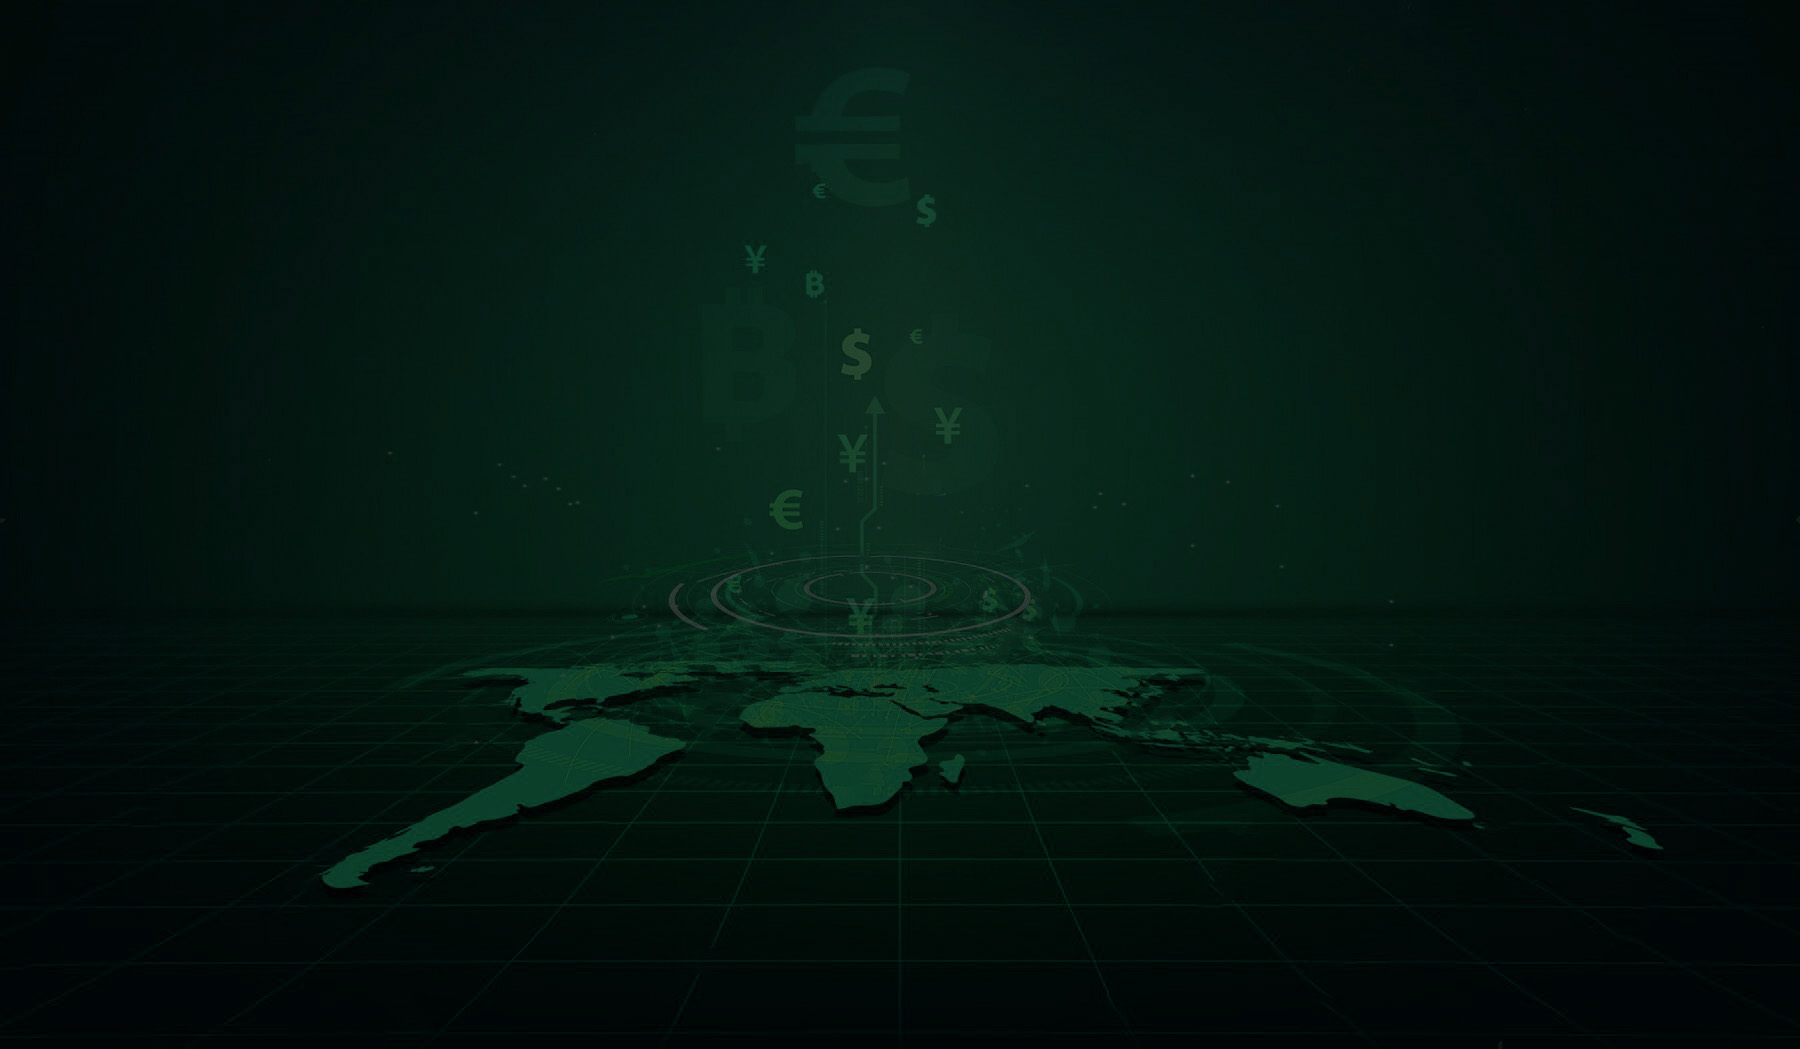
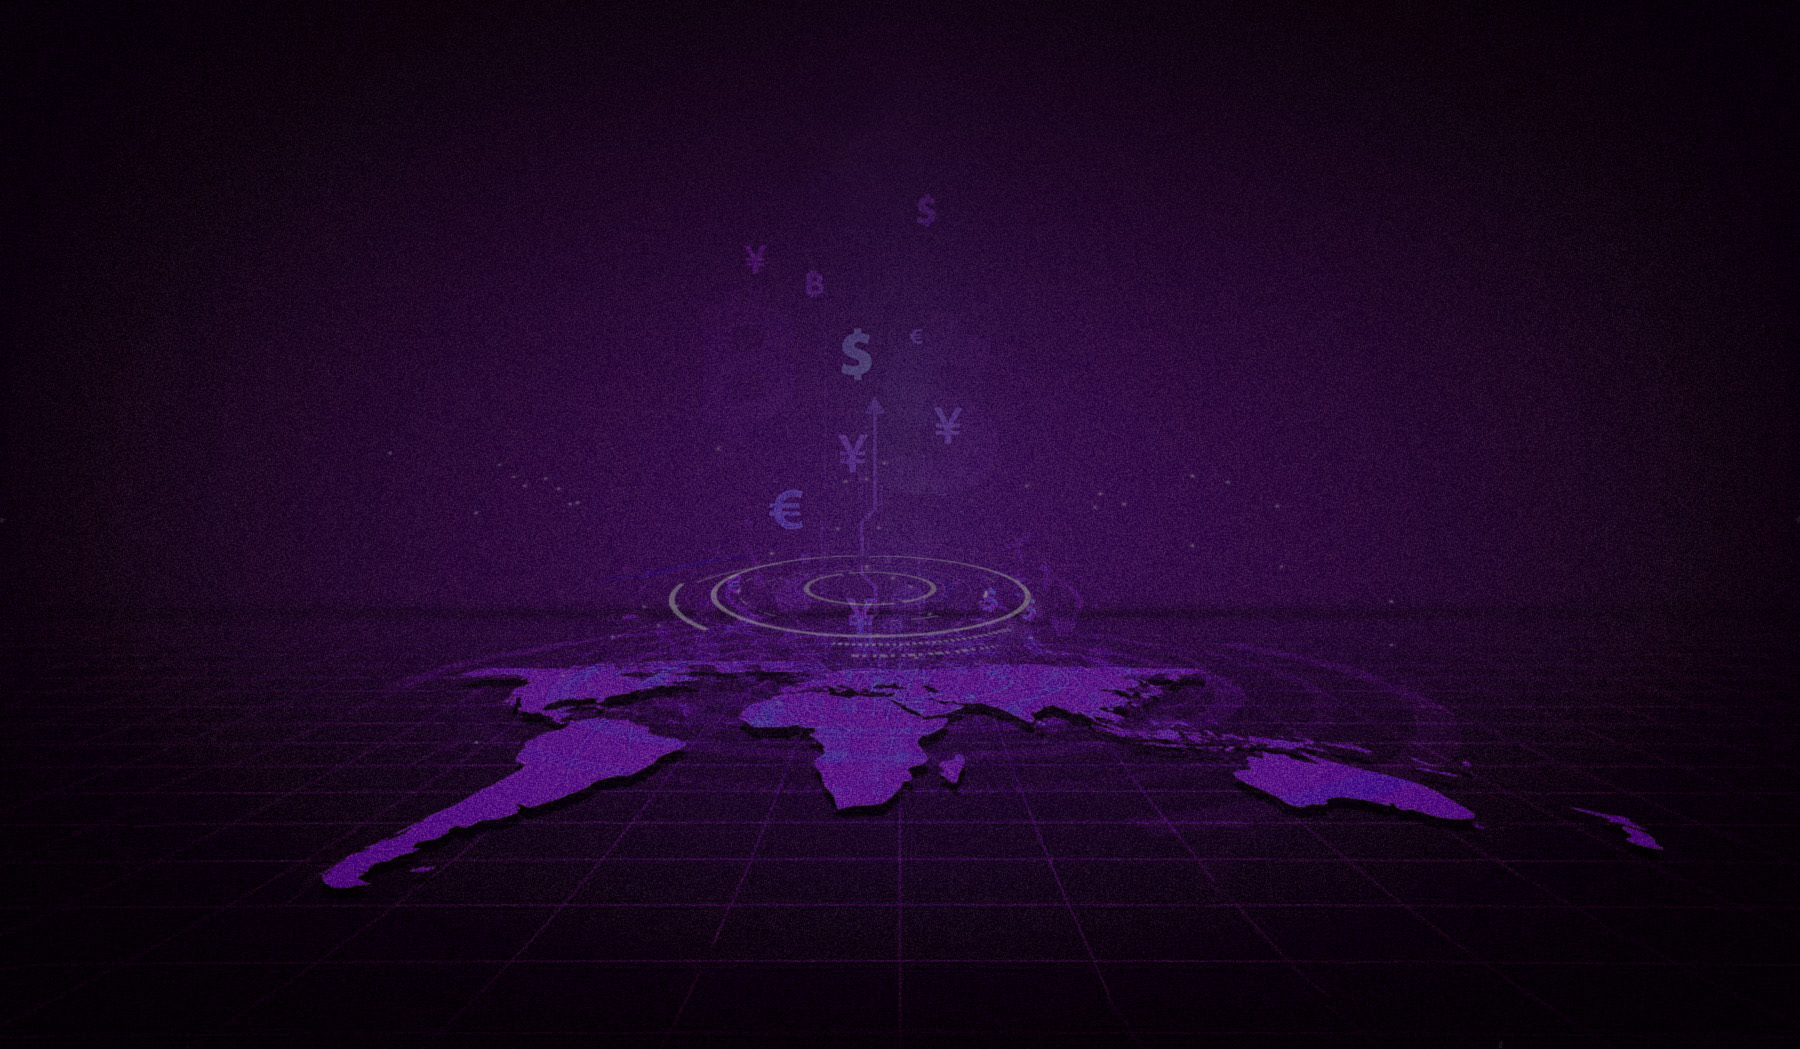
final commit

diff --git a/client/src/pages/MainPage.js b/client/src/pages/MainPage.js
@@ -63,16 +63,21 @@ function MainPage() {
   return (
 
     <div>
+
+      
       {loading?(        
-      <div className="w-full h-screen flex flex-col items-center justify-center bg-black">
-      <div className="w-16 h-16 border-4 border-green-500 border-dashed rounded-full animate-spin"></div>
-      <p className="mt-4 text-green-600 font-semibold text-xl">Converting...</p>
+      <div className="w-full h-screen flex flex-col items-center justify-center bg-black bg-cover bg-center"
+      style={{ backgroundImage: "url('/blur_bg.jpg')" }}>
+      <div className="w-16 h-16 border-4 border-[rgb(198,0,255)] border-dashed rounded-full animate-spin"></div>
+      <p className="mt-4 text-[rgb(198,0,255)] text-600 font-semibold text-xl">Converting...</p>
     </div>
       ):(  
-      <div className="bg-cover bg-center h-screen w-full" style={{ backgroundImage: "url('currency-banner.jpg')" }}>
+      <div className="bg-cover bg-center h-screen w-full" style={{ backgroundImage: "url('currency-banner.jpg')" }}                >
+      
+
         <div>
         <br></br> <br></br>
-        <h1 className='lg:mx-32  text-5xl font-bold text-green-500 text-center'> Convert Your Currencies Today!</h1>
+        <h1 className='lg:mx-32  text-5xl font-bold text-[rgb(198,0,255)] text-center'> Convert Your Currencies Today!</h1>
         <p className='lg:mx-32 opacity-80 py-6 text-center'>Convert Your Currencies Today is your ultimate currency exchange companion! Whether you're traveling the world, 
             shopping internationally, managing business transactions, or sending money abroad, our app ensures quick, accurate, 
             and hassle-free conversions in real-time.</p>
@@ -84,7 +89,7 @@ function MainPage() {
               
                       <div className="mb-4">
                        <label htmlFor={date} className="block mb-2 text-sm font-medium text-gray-900 dark:text-white">Date</label>
-                       <input onChange={(e) => setDate(e.target.value)} type="Date" id={date} name={date} className="bg-gray-50 border border-gray-300 text-gray-900 text-sm rounded-lg focus:ring-green-500 focus:border-green-500 block w-full p-2.5 dark:bg-white-100 dark:border-gray-600 dark:placeholder-gray-400 dark:text-black dark:focus:ring-green-500 dark:focus:border-green-500"  required />
+                       <input onChange={(e) => setDate(e.target.value)} type="Date" id={date} name={date} className="bg-gray-200 border border-gray-300 text-gray-900 text-sm rounded-lg focus:ring-purple-500 focus:border-purple-500 block w-full p-2.5 dark:bg-white-100 dark:border-gray-600 dark:placeholder-gray-400 dark:text-black dark:focus:ring-purple-500 dark:focus:border-purple-500"  required />
     
                       </div>
 
@@ -94,7 +99,7 @@ function MainPage() {
                        </label>
                        <select
                        onChange={(e) => setSourceCurrency(e.target.value)}
-                       className= "bg-gray-50 border border-gray-300 text-gray-900 text-sm rounded-lg focus:ring-green-500 focus:border-green-500 block w-full p-2.5 dark:bg-white-100 dark:border-gray-600 dark:placeholder-gray-400 dark:text-black dark:focus:ring-green-500 dark:focus:border-green-500" name={sourceCurrency} id={sourceCurrency} value={sourceCurrency}>
+                       className= "bg-gray-200 border border-gray-300 text-gray-900 text-sm rounded-lg focus:ring-purple-500 focus:border-purple-500 block w-full p-2.5 dark:bg-white-100 dark:border-gray-600 dark:placeholder-gray-400 dark:text-black dark:focus:ring-purple-500 dark:focus:border-purple-500" name={sourceCurrency} id={sourceCurrency} value={sourceCurrency}>
 
                            <option value=""> Select Your Source Currency</option>
                            {console.log("currency names : ",currencyNames)}
@@ -113,7 +118,7 @@ function MainPage() {
                        </label>
                        <select
                        onChange={(e) => setTargetCurrency(e.target.value)}
-                       className= "bg-gray-50 border border-gray-300 text-gray-900 text-sm rounded-lg focus:ring-green-500 focus:border-green-500 block w-full p-2.5 dark:bg-white-100 dark:border-gray-600 dark:placeholder-gray-400 dark:text-black dark:focus:ring-green-500 dark:focus:border-green-500" name={targetCurrency} id={targetCurrency} value={targetCurrency}>
+                       className= "bg-gray-200 border border-gray-300 text-gray-900 text-sm rounded-lg focus:ring-purple-500 focus:border-purple-500 block w-full p-2.5 dark:bg-white-100 dark:border-gray-600 dark:placeholder-gray-400 dark:text-black dark:focus:ring-purple-500 dark:focus:border-purple-500" name={targetCurrency} id={targetCurrency} value={targetCurrency}>
 
                            <option value=""> Select Your Target Currency</option> 
                            {Object.keys(currencyNames).map((currency) => (
@@ -129,12 +134,12 @@ function MainPage() {
 
                       <div className="mb-4">
                        <label htmlFor={amountInSourceCurrency} className="block mb-2 text-sm font-medium text-gray-900 dark:text-white">Amount in Source Currency</label>
-                       <input onChange={(e)=>setAmountInSourceCurrency(e.target.value)} type="number" id={amountInSourceCurrency} name={amountInSourceCurrency} className="bg-gray-50 border border-gray-300 text-gray-900 text-sm rounded-lg focus:ring-green-500 focus:border-green-500 block w-full p-2.5 dark:bg-white-100 dark:border-gray-600 dark:placeholder-gray-400 dark:text-black dark:focus:ring-green-500 dark:focus:border-green-500" placeholder='Amount in Source Currency' required />
+                       <input onChange={(e)=>setAmountInSourceCurrency(e.target.value)} type="number" id={amountInSourceCurrency} name={amountInSourceCurrency} className="bg-gray-200 border border-gray-300 text-gray-900 text-sm rounded-lg focus:ring-purple-500 focus:border-purple-500 block w-full p-2.5 dark:bg-white-100 dark:border-gray-600 dark:placeholder-gray-400 dark:text-black dark:focus:ring-purple-500 dark:focus:border-purple-500" placeholder='Amount in Source Currency' required />
 
                       <br></br>
                       </div>
 
-                     <button  className='bg-green-500 hover:bg-green-700 text-white font-medium py-2 px-4 rounded-md'>
+                     <button  className='bg-[rgb(169,3,217)] hover:bg-[rgb(214,66,255)] text-white font-medium py-2 px-4 rounded-md'>
                       {""}
                        Get Target Currency
                     </button> 
@@ -142,22 +147,19 @@ function MainPage() {
 
                     {!textloading ?  <section className='lg:mx-32  text-xl text-center '>
                     <br></br>
-                    <p>  {amountInSourceCurrency} {currencyNames[sourceCurrency] } is equals to {""}<span className='text-green-500 font-bold' >{amountInTargetCurrency}</span> in {currencyNames[targetCurrency]}</p>
+                    <p>  {amountInSourceCurrency} {currencyNames[sourceCurrency] } is equals to {""}<span className='text-[rgb(198,0,255)] font-bold' >{amountInTargetCurrency}</span> in {currencyNames[targetCurrency]}</p>
                     </section> : null}
                    
-                    
           
 
              </form>
              
-
-
+  
            </section>
        </div>
 
 
     </div>)}
-
     
     </div>
  
